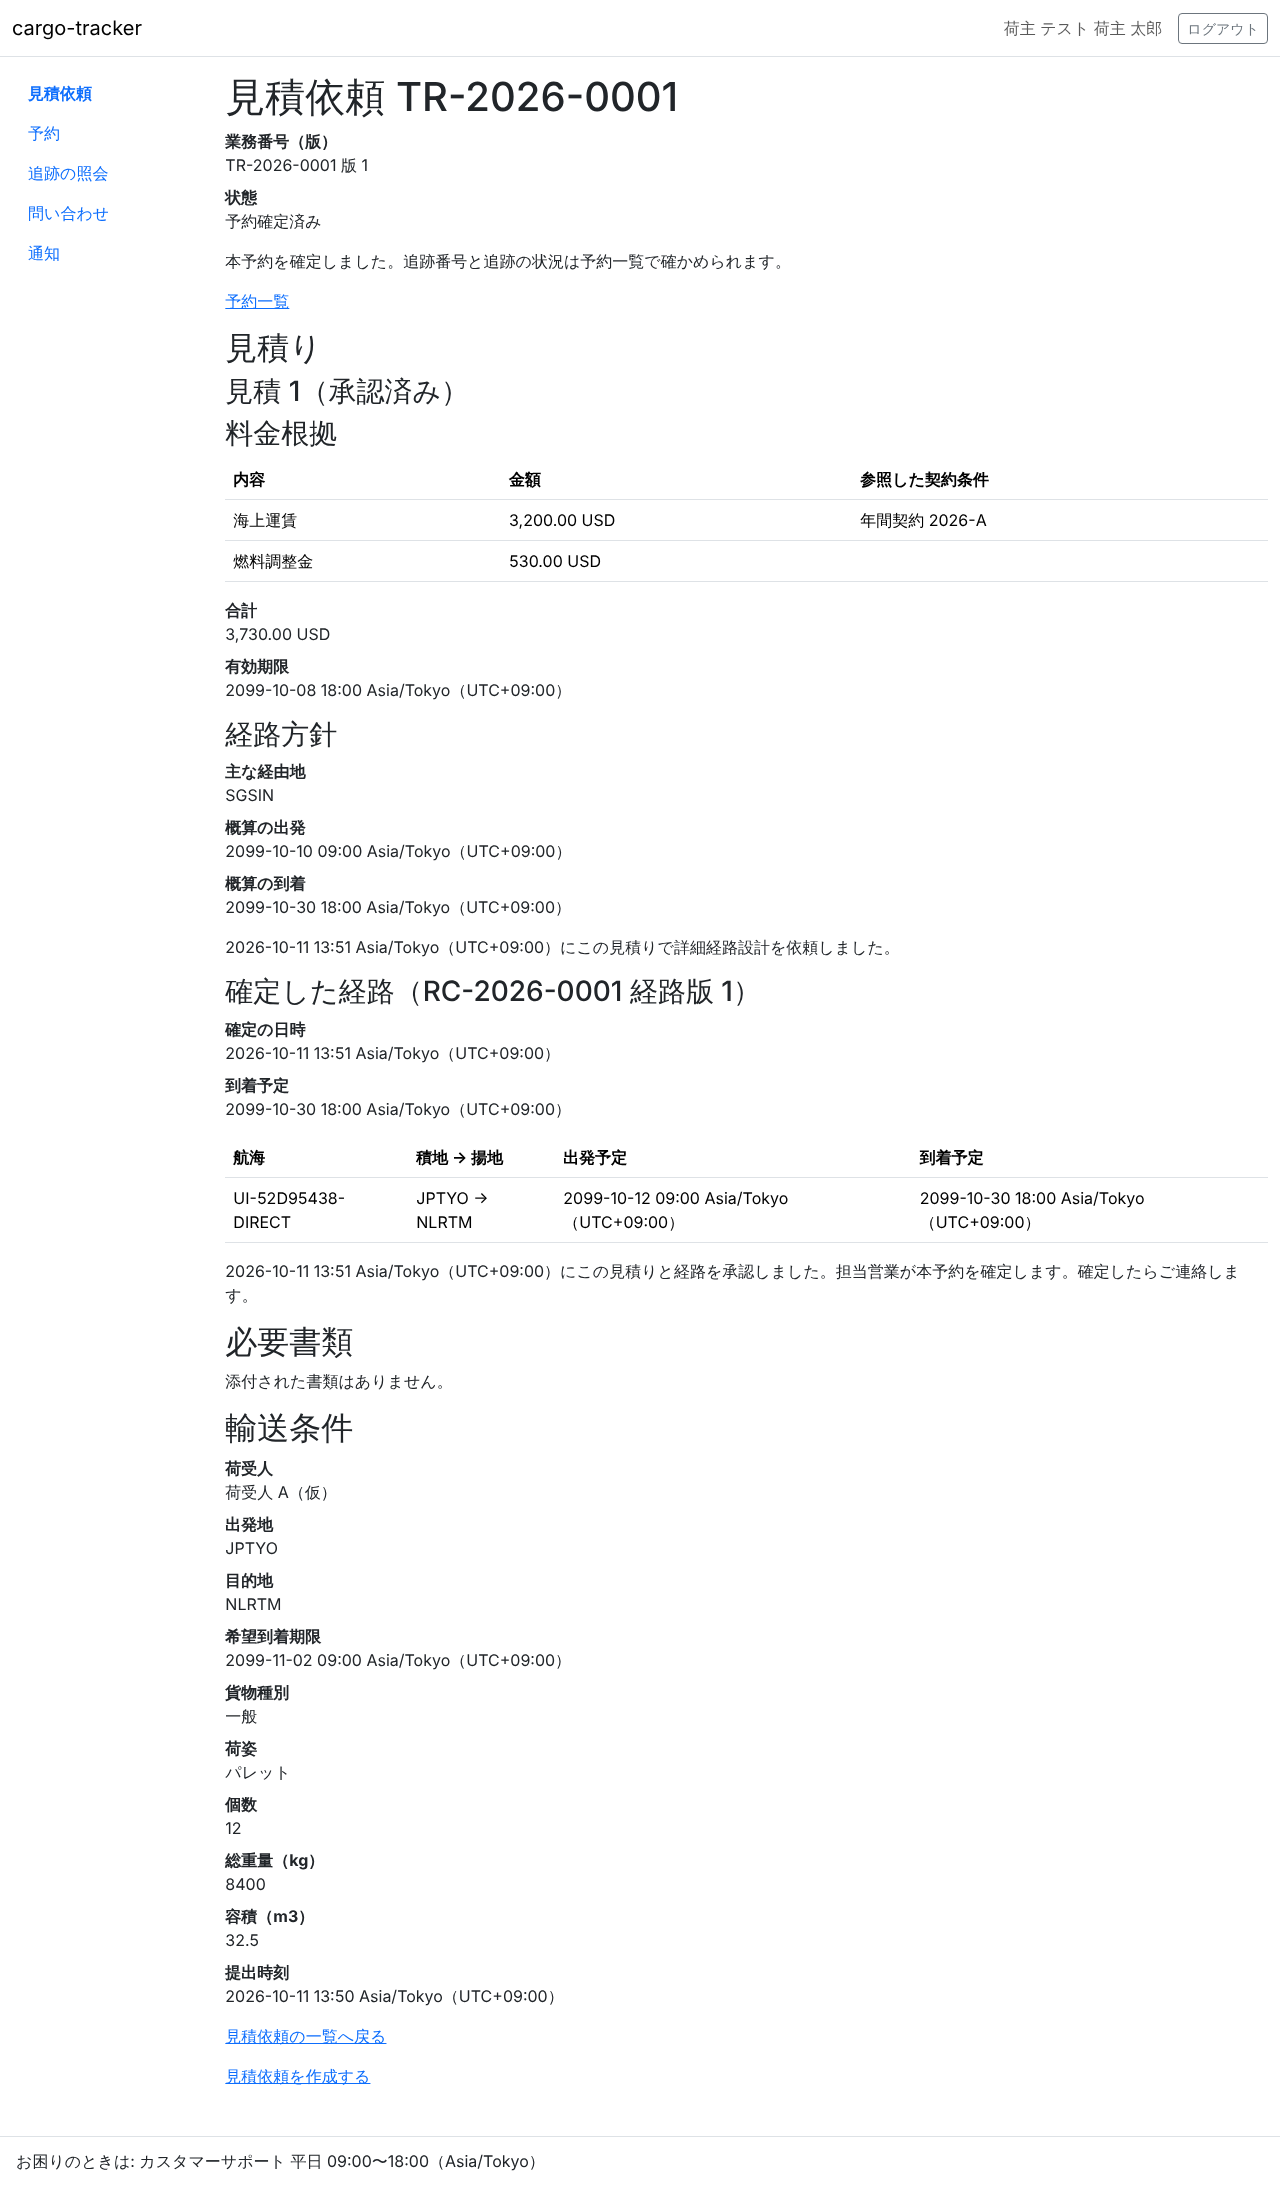
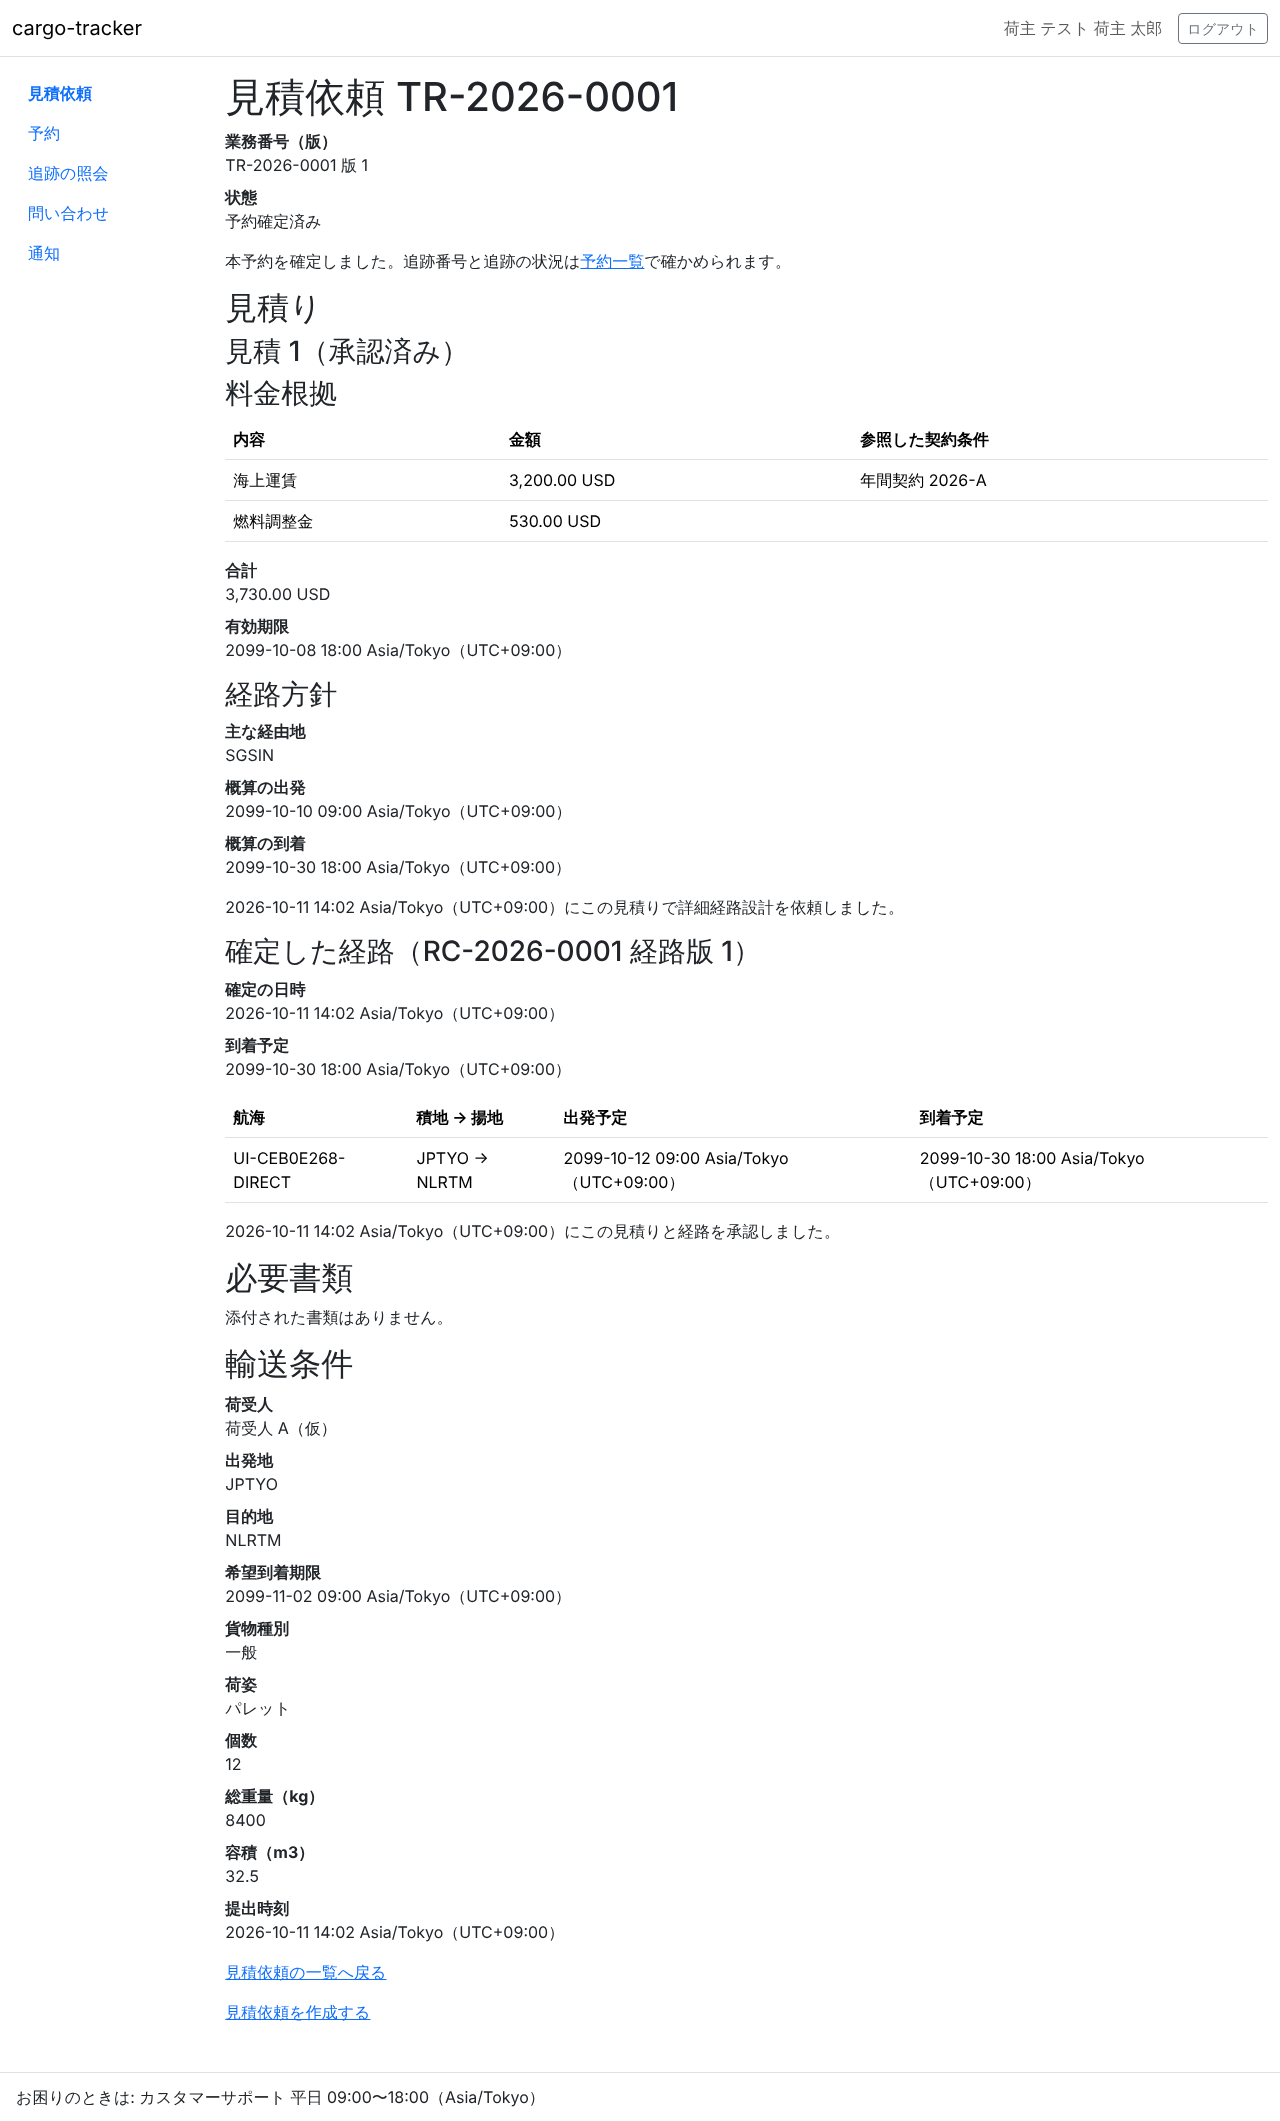
fix(cargo-tracker): 予約確定済みの見積依頼の詳細で確定の前の約束を出さず、予約一覧のリンクを案内の文に入れる（Bolt 29b のレビュー）
予約確定済みの C-04 で、承認した見積りの記録に残っていた「担当営業が本予約を確定します」をやめ、承認の記録だけにした。
予約一覧のリンクを案内の文の中に置き、リンクの目的を同じ文で伝える（WCAG 2.4.4）。
テストの否定のアサーションを消した語に絞り、UI 設計・マニュアル（1・5 章、用語集）・キャプチャを合わせた。

Claude-Session: https://claude.ai/code/session_0192bSMPD6E1AkDDh67oWQWW

diff --git a/apps/cargo-tracker/src/main/resources/templates/quotation/transport-requests/detail.html b/apps/cargo-tracker/src/main/resources/templates/quotation/transport-requests/detail.html
@@ -21,8 +21,9 @@
         <dt>状態</dt>
         <dd th:text="${statusLabel}">審査中（A 社の対応待ち）</dd>
     </dl>
-    <p th:text="${guidance}">営業担当者が内容を審査しています。お問い合わせの際は業務番号をお伝えください。</p>
-    <p th:if="${booked}"><a th:href="@{/customer/bookings}">予約一覧</a></p>
+    <p th:unless="${booked}" th:text="${guidance}">営業担当者が内容を審査しています。お問い合わせの際は業務番号をお伝えください。</p>
+    <!-- 予約確定済みはリンクを案内の文の中に置き、リンクの目的を同じ文で伝える（WCAG 2.4.4。Bolt 29b の開発レビュー） -->
+    <p th:if="${booked}">本予約を確定しました。追跡番号と追跡の状況は<a th:href="@{/customer/bookings}">予約一覧</a>で確かめられます。</p>
 
     <!-- 荷主に見せるのは、現在の版への差戻しの理由と不足事項だけ。判断者と審査の確定の根拠は見せない（2026-10-03 の人の決定） -->
     <section th:if="${sendBack}" aria-labelledby="send-back-title">
@@ -65,8 +66,9 @@
         <p th:if="${quotation.approvable()}"><a th:href="@{/customer/transport-requests/{number}/quotations/{no}/approval(number=${number},no=${quotation.quotationNo()})}">見積りと経路を確かめて承認へ</a></p>
         <p th:if="${quotation.approvedAt() != null and quotation.expired()}" class="alert alert-warning"
            th:text="|承認の後に有効期限（${quotation.expiresAt()}）を過ぎました。本予約の扱いは担当営業からご連絡します。|">承認の後に有効期限（2026-10-05 21:00 Asia/Tokyo（UTC+09:00））を過ぎました。本予約の扱いは担当営業からご連絡します。</p>
+        <!-- 予約確定済みの後は承認の記録だけを示し、確定の前の約束（担当営業が確定します）を出さない（Bolt 29b の開発レビュー） -->
         <p th:if="${quotation.approvedAt() != null and !quotation.expired()}"
-           th:text="|${quotation.approvedAt()}にこの見積りと経路を承認しました。担当営業が本予約を確定します。確定したらご連絡します。|">2026-10-07 15:00 Asia/Tokyo（UTC+09:00）にこの見積りと経路を承認しました。担当営業が本予約を確定します。確定したらご連絡します。</p>
+           th:text="${booked} ? |${quotation.approvedAt()}にこの見積りと経路を承認しました。| : |${quotation.approvedAt()}にこの見積りと経路を承認しました。担当営業が本予約を確定します。確定したらご連絡します。|">2026-10-07 15:00 Asia/Tokyo（UTC+09:00）にこの見積りと経路を承認しました。担当営業が本予約を確定します。確定したらご連絡します。</p>
         <th:block th:unless="${#lists.isEmpty(previousQuotations)}">
             <h3>以前の見積り（読み取り専用）</h3>
             <details th:each="previous : ${previousQuotations}">

diff --git a/apps/cargo-tracker/src/test/java/com/example/cargotracker/quotation/interfaces/web/TransportRequestControllerTest.java b/apps/cargo-tracker/src/test/java/com/example/cargotracker/quotation/interfaces/web/TransportRequestControllerTest.java
@@ -663,12 +663,30 @@ class TransportRequestControllerTest {
         mockMvc.perform(get("/customer/transport-requests/TR-2026-0001"))
                 .andExpect(status().isOk())
                 .andExpect(content().string(containsString("<dd>予約確定済み</dd>")))
-                .andExpect(content().string(containsString("本予約を確定しました。追跡番号と追跡の状況は予約一覧で確かめられます。")))
-                .andExpect(content().string(containsString("href=\"/customer/bookings\">予約一覧</a>")))
-                .andExpect(content().string(not(containsString("準備中"))));
+                // リンクは案内の文の中に置き、リンクの目的が同じ文から分かるようにする（WCAG 2.4.4。Bolt 29b の開発レビュー）
+                .andExpect(content()
+                        .string(containsString(
+                                "本予約を確定しました。追跡番号と追跡の状況は<a href=\"/customer/bookings\">予約一覧</a>で確かめられます。")))
+                .andExpect(content().string(not(containsString("追跡の開始の準備中"))));
         mockMvc.perform(get("/customer/transport-requests"))
+                .andExpect(status().isOk())
                 .andExpect(content().string(containsString("予約確定済み")))
-                .andExpect(content().string(not(containsString("準備中"))));
+                .andExpect(content().string(not(containsString("追跡の開始の準備中"))));
+    }
+
+    @Test
+    void 予約確定済みの見積依頼では承認した見積りに承認の記録だけを示し確定の前の約束を出さない() throws Exception {
+        TransportRequest request = booked();
+        given(queryService.findByNumber(NUMBER, SHIPPER)).willReturn(Optional.of(request));
+        Quotation quotation = awaitingApproval(request.id());
+        quotation.approveByShipper(USER, new UtcInstant(Instant.parse("2026-10-07T06:00:00Z")));
+        given(quotationQueryService.findVisible(NUMBER, SHIPPER)).willReturn(List.of(quotation));
+
+        mockMvc.perform(get("/customer/transport-requests/TR-2026-0001"))
+                .andExpect(status().isOk())
+                .andExpect(
+                        content().string(containsString("2026-10-07 15:00 Asia/Tokyo（UTC+09:00）にこの見積りと経路を承認しました。</p>")))
+                .andExpect(content().string(not(containsString("担当営業が本予約を確定します。"))));
     }
 
     @Test

diff --git a/apps/cargo-tracker/src/main/java/com/example/cargotracker/quotation/interfaces/web/TransportRequestLabels.java b/apps/cargo-tracker/src/main/java/com/example/cargotracker/quotation/interfaces/web/TransportRequestLabels.java
@@ -65,6 +65,7 @@ final class TransportRequestLabels {
             case ROUTING -> "経路設計者が詳細な経路を設計しています。承認の準備ができたら担当営業からご連絡します。";
             case AWAITING_APPROVAL -> "経路が確定しました。見積りと経路を確かめて承認してください。";
             case READY_TO_BOOK -> "見積りと経路を承認いただきました。担当営業が本予約を確定します。確定したらご連絡します。";
+            // C-04 は予約一覧へのリンクを文の中に置くため、この文をテンプレートで組み立てる（detail.html。Bolt 29b）
             case BOOKED -> "本予約を確定しました。追跡番号と追跡の状況は予約一覧で確かめられます。";
         };
     }

diff --git a/docs/manual/01-業務フロー.md b/docs/manual/01-業務フロー.md
@@ -4,7 +4,7 @@ title: "1 章 業務フロー"
 description: "一般貨物 1 件が、荷主の見積依頼から追跡の照会まで進む流れ（WF-1）です。"
 tags: [manual,cargo-tracker]
 status: draft
-generated: { by: anthropic/claude-opus-5-5, at: 2026-10-11T04:54:13Z }
+generated: { by: anthropic/claude-opus-5-5, at: 2026-10-11T05:03:17Z }
 ---
 
 # 1 章 業務フロー
@@ -48,7 +48,7 @@ stop
 | 3 | 見積りに回答する（この条件で詳細経路設計へ進む） | 荷主担当者 | 経路設計中（A 社の対応待ち） | [4.1](04-見積りへの回答と承認.md#41-見積りへの回答) |
 | 4 | 経路の候補を比較して確定する | 経路設計者 | 見積りと経路の承認待ち（お客様の対応待ち） | [8 章](08-経路設計.md) |
 | 5 | 見積りと経路を承認する | 荷主担当者 | 予約待ち（A 社の対応待ち） | [4.2](04-見積りへの回答と承認.md#42-見積りと経路の承認) |
-| 6 | 本予約を確定する | 営業担当者 | 予約確定済み（追跡の状況は予約一覧で確かめる） | [7 章](07-本予約の確定と予約一覧.md) |
+| 6 | 本予約を確定する | 営業担当者 | 予約確定済み | [7 章](07-本予約の確定と予約一覧.md) |
 | 7 | 主要な実績（集荷など）を登録する | 追跡管理者 | — | [9 章](09-追跡管理.md) |
 | 8 | 予約と追跡の状況を確かめる | 荷主担当者 | — | [5 章](05-予約一覧と追跡の照会.md) |
 

diff --git a/docs/manual/用語集.md b/docs/manual/用語集.md
@@ -4,7 +4,7 @@ title: "付録 A 用語集"
 description: "本マニュアルと画面で使う言葉です。"
 tags: [manual,cargo-tracker]
 status: draft
-generated: { by: anthropic/claude-opus-5-5, at: 2026-10-10T10:16:07Z }
+generated: { by: anthropic/claude-opus-5-5, at: 2026-10-11T05:03:17Z }
 ---
 
 # 付録 A 用語集
@@ -26,6 +26,7 @@ generated: { by: anthropic/claude-opus-5-5, at: 2026-10-10T10:16:07Z }
 | 見積り | 料金根拠（料金明細）・合計・有効期限・経路方針。見積り番号（見積 1 など）で識別します |
 | 有効期限（見積有効期限） | 見積りが有効な期限。この時刻より前に本予約を確定する必要があります。社内の経路設計の画面では「見積有効期限」と示します |
 | 失効 | 有効期限を過ぎて見積りが使えなくなった状態。新しい見積りが要ります |
+| 予約確定済み | 担当営業が本予約を確定した見積依頼の状態。追跡番号と追跡の状況は予約一覧で確かめます |
 | 置換済み | 再見積りで新しい見積りに置き換えられた見積りの状態。読み取り専用になります |
 | 経路方針 | 見積りの時点の経路の目安（主な経由地、概算の出発と到着）。詳細な経路は経路設計者が確定します |
 | 詳細経路設計 | 荷主が見積りに回答した後に、経路設計者が航海と接続から経路を決めること |

diff --git a/docs/manual/05-予約一覧と追跡の照会.md b/docs/manual/05-予約一覧と追跡の照会.md
@@ -4,7 +4,7 @@ title: "5 章 予約一覧と追跡の照会"
 description: "担当営業が本予約を確定した後に、荷主担当者が自社の予約と貨物の輸送の状況を確かめる画面です。"
 tags: [manual,cargo-tracker]
 status: draft
-generated: { by: anthropic/claude-opus-5-5, at: 2026-10-11T04:54:13Z }
+generated: { by: anthropic/claude-opus-5-5, at: 2026-10-11T05:03:17Z }
 ---
 
 # 5 章 予約一覧と追跡の照会
@@ -32,7 +32,9 @@ generated: { by: anthropic/claude-opus-5-5, at: 2026-10-11T04:54:13Z }
 - ナビゲーションの「予約」（URL: `/customer/bookings`）
 - 本予約が確定した見積依頼の詳細の案内の「予約一覧」。見積依頼の状態は「予約確定済み」になり、追跡番号と追跡の状況は予約一覧で確かめます
 
-![予約確定済みの見積依頼の詳細](assets/05-request-detail-booked.png)
+見積依頼の詳細では、状態の下に次の案内が示されます。案内の中の「予約一覧」を押すと、この画面が開きます。
+
+![予約確定済みの見積依頼の詳細（状態の下の案内の「予約一覧」から開く）](assets/05-request-detail-booked.png)
 
 ### 画面の説明
 

diff --git a/docs/log.md b/docs/log.md
@@ -1,6 +1,11 @@
 # Docs Update Log
 
 ## 2026-10-11
+* **Update**: [用語集](/manual/用語集.md) を更新（anthropic/claude-opus-5-5）
+* **Update**: [05-予約一覧と追跡の照会](/manual/05-予約一覧と追跡の照会.md) を更新（anthropic/claude-opus-5-5）
+* **Update**: [01-業務フロー](/manual/01-業務フロー.md) を更新（anthropic/claude-opus-5-5）
+* **Update**: [bolt_29b_plan](/development/cargo-tracker/bolt_29b_plan.md) を更新（anthropic/claude-opus-5-5）
+* **Update**: [ui_design](/design/cargo-tracker/ui_design.md) を更新（anthropic/claude-opus-5-5）
 * **Update**: [05-予約一覧と追跡の照会](/manual/05-予約一覧と追跡の照会.md) を更新（anthropic/claude-opus-5-5）
 * **Update**: [04-見積りへの回答と承認](/manual/04-見積りへの回答と承認.md) を更新（anthropic/claude-opus-5-5）
 * **Update**: [02-ログインと共通の画面](/manual/02-ログインと共通の画面.md) を更新（anthropic/claude-opus-5-5）
